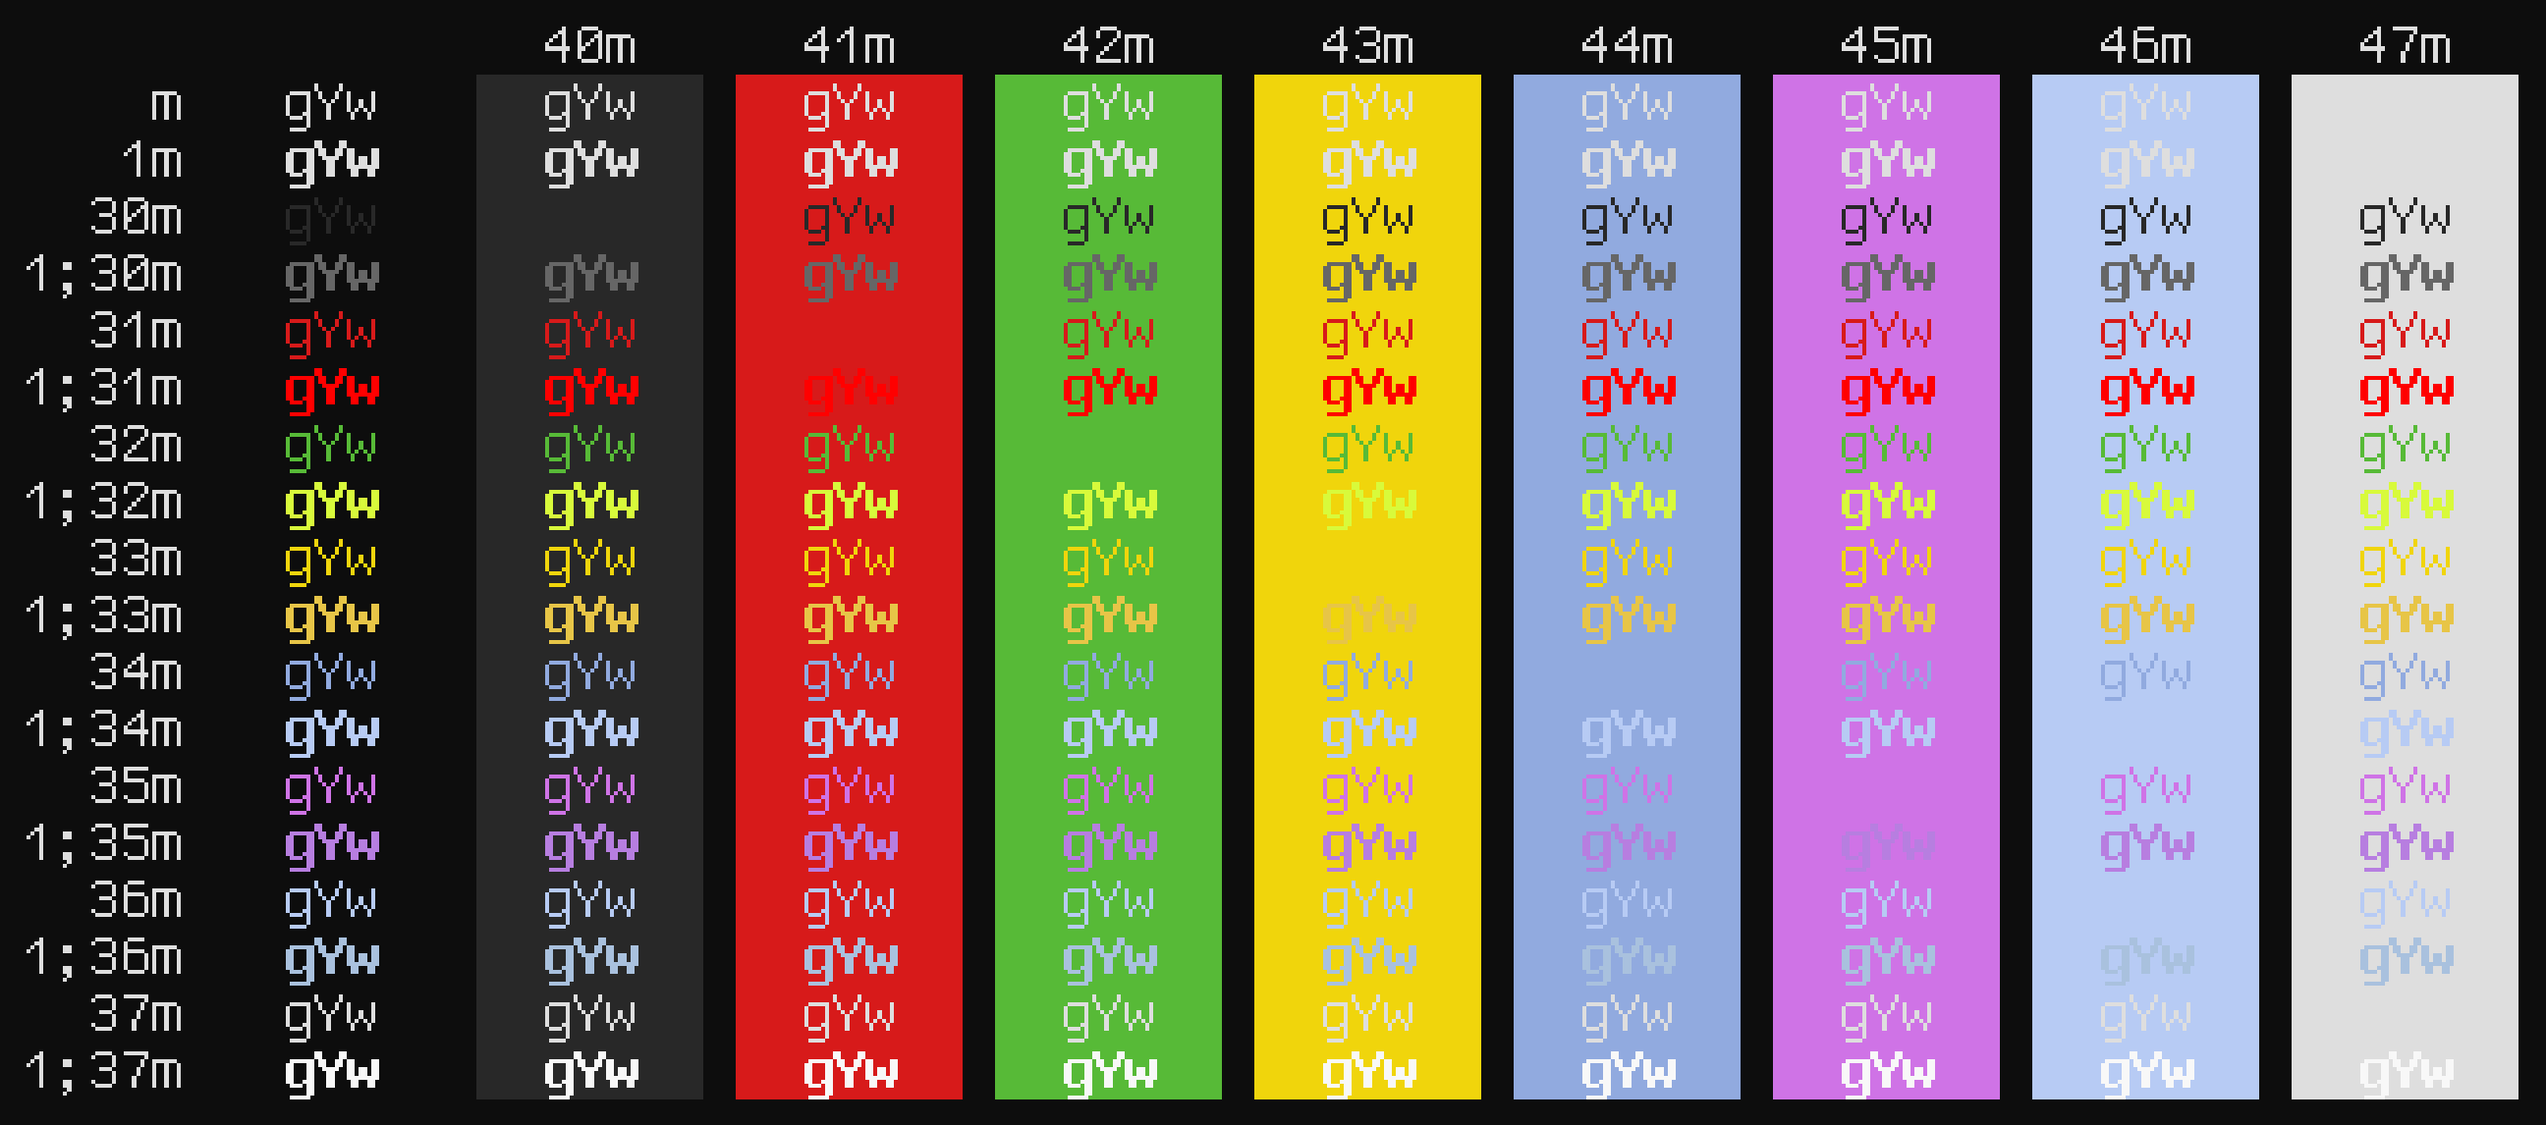
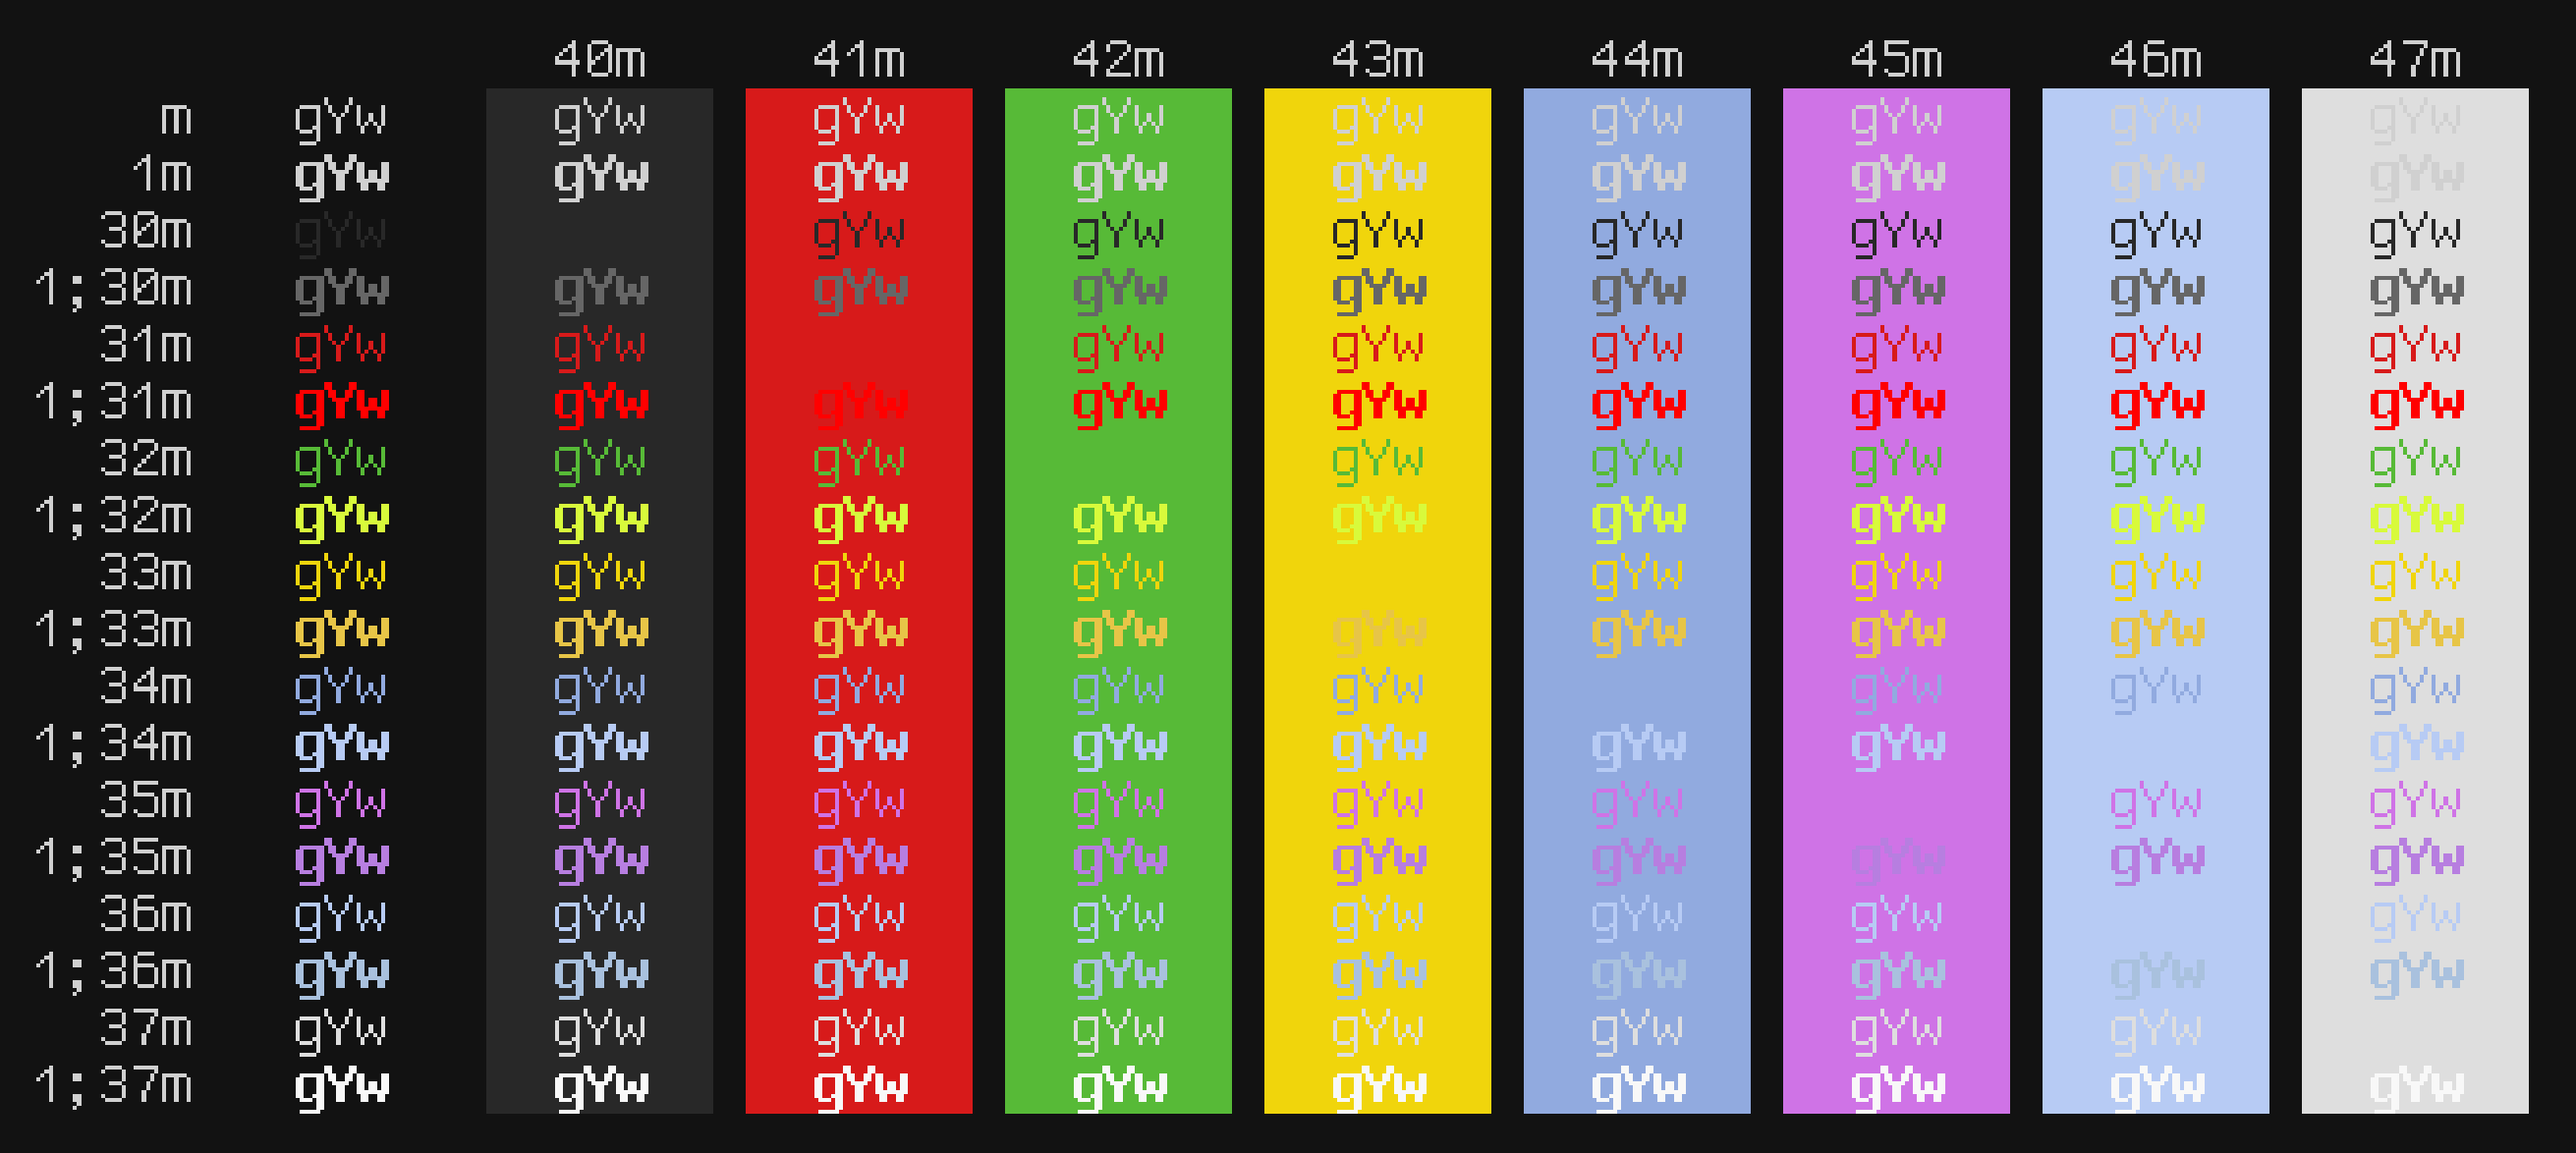
Update media and README

diff --git a/README.md b/README.md
@@ -50,7 +50,7 @@ Plug 'jaredgorski/spacecamp'
 ```
   primary:
     background: '0x121212'
-    foreground: '0xDEDEDE'
+    foreground: '0xD0D0D0'
 
   cursor:
     text:       '0x0D0D0D'
